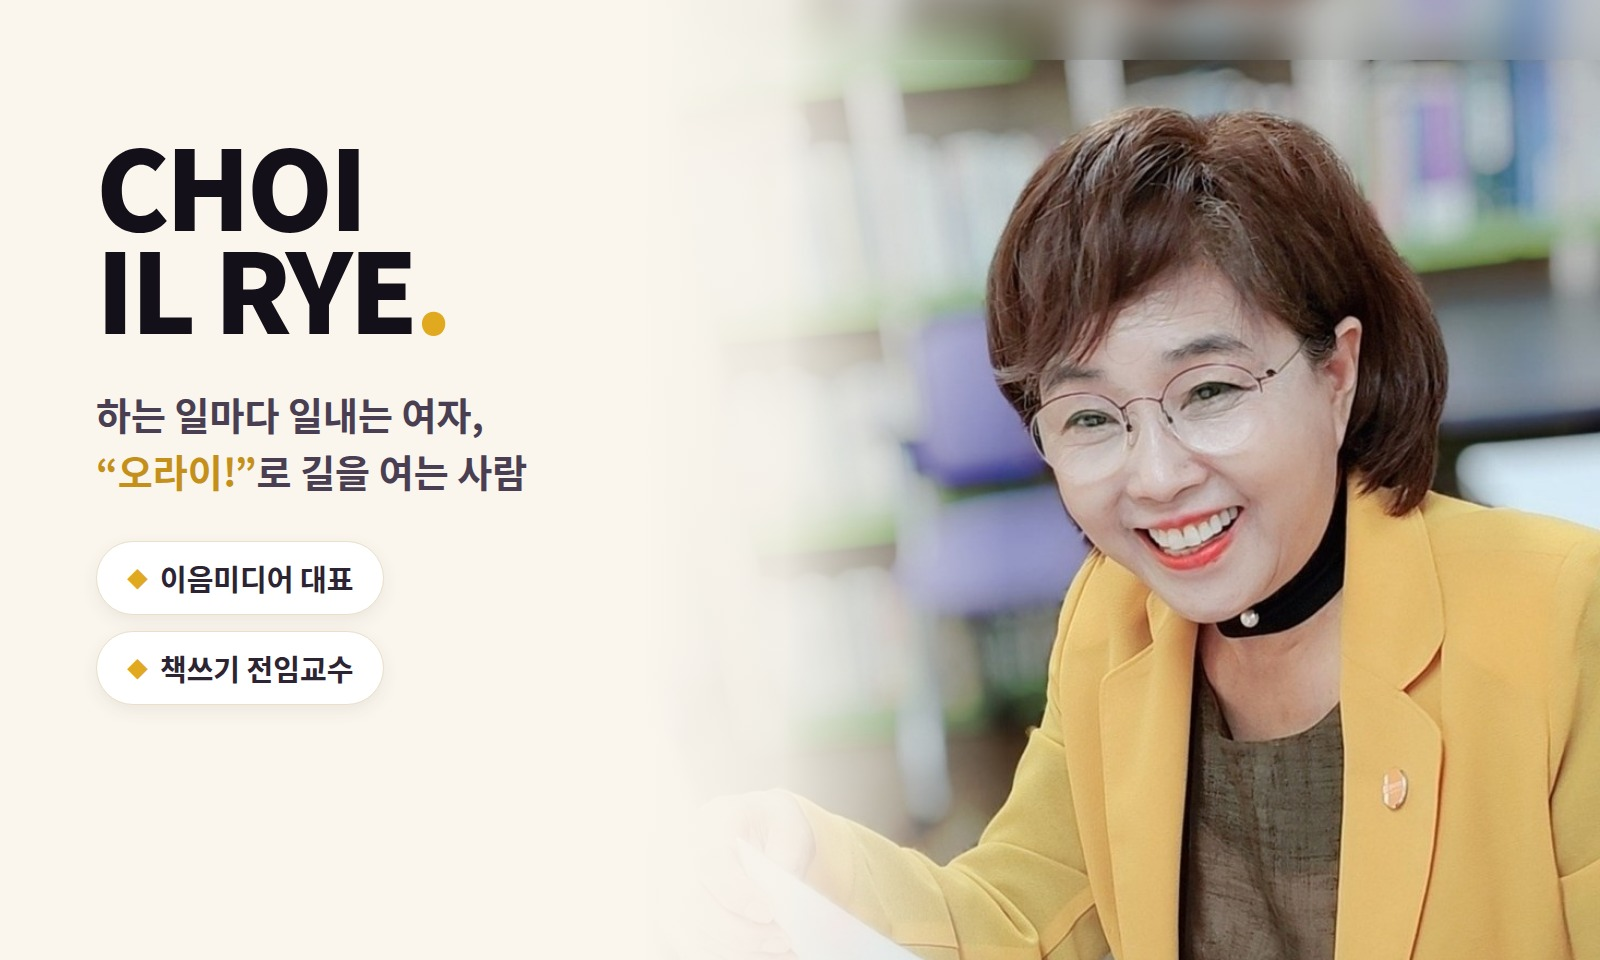
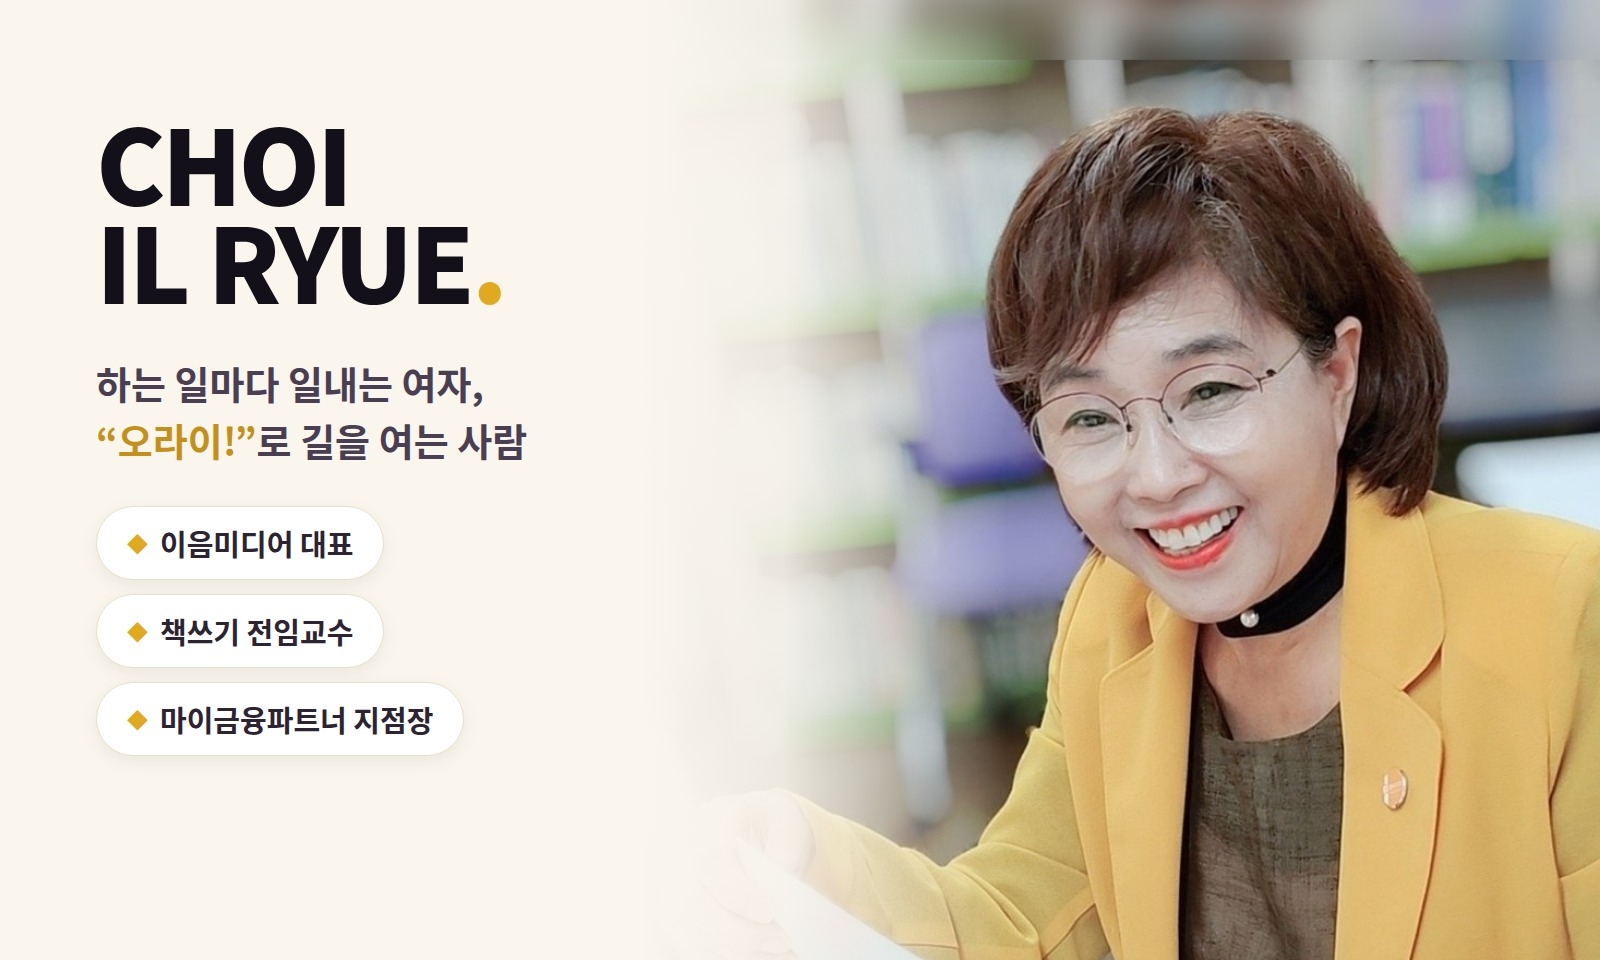
feat: choiilrye profile update - RYUE signature, 마이금융파트너, card image
- 영문명 CHOI IL RYE -> CHOI IL RYUE (hero-en + SVG aria-label)
- 서명 SVG 교체 (viewBox 960->1000, u 패스 추가, 플러리시 이동)
- hero-sub 2줄: 소통공감박사 + 마이금융파트너 지점장 추가
- 인카금융서비스 카드 -> 마이금융파트너 비에프본부 지점장 카드 교체
- card.jpg 신규 이미지(188KB)로 교체

Changed region(s): [[0.0625, 0.125, 0.3438, 0.7812]]

diff --git a/src/pages/PiumAppDetailPage.jsx b/src/pages/PiumAppDetailPage.jsx
@@ -1444,6 +1444,7 @@ function ChoiilryePage() {
 .cir-hero-figure{position:relative;margin:30px -26px 0;border-top:2px solid rgba(224,169,31,.55);overflow:hidden}
 .cir-hero-photo{width:100%;display:block}
 .cir-hero-figure::after{content:'';position:absolute;inset:0;pointer-events:none;background:linear-gradient(180deg,rgba(20,16,25,.38) 0%,rgba(20,16,25,0) 26%,rgba(20,16,25,0) 58%,rgba(20,16,25,.92) 100%)}
+.cir-sig{position:absolute;z-index:2;left:50%;bottom:14px;transform:translateX(-50%);width:78%;pointer-events:none;filter:drop-shadow(0 3px 7px rgba(0,0,0,.9)) drop-shadow(0 0 16px rgba(0,0,0,.75))}
 /* stats */
 .cir-hero-stats{display:flex;gap:10px;margin-top:22px}
 .cir-stat{flex:1;background:rgba(255,255,255,.045);border:1px solid var(--line);border-radius:14px;padding:15px 8px;text-align:center}
@@ -1634,13 +1635,14 @@ function ChoiilryePage() {
       {/* 히어로 */}
       <header className="cir-hero">
         <div className="cir-hero-brand">PIUM 전문가 프로필</div>
-        <div className="cir-hero-en">CHOI IL RYE</div>
+        <div className="cir-hero-en">CHOI IL RYUE</div>
         <div className="cir-hero-div" />
         <h1>최일례</h1>
-        <div className="cir-hero-sub">이음미디어 대표 · 소통공감박사 · 책쓰기 전임교수</div>
+        <div className="cir-hero-sub">이음미디어 대표 · 소통공감박사<br />책쓰기 전임교수 · 마이금융파트너 지점장</div>
         <div className="cir-hero-tag">하는 일마다 일내는 여자,<br /><em>"오라이!"</em>로 길을 여는 사람</div>
         <figure className="cir-hero-figure">
           <img className="cir-hero-photo" src="/pium-app/choiilrye/hero.jpg" alt="최일례 대표" />
+          <svg className="cir-sig" viewBox="0 0 1000 300" xmlns="http://www.w3.org/2000/svg" aria-label="Choi il-ryue"><defs><linearGradient id="sigG" x1="0" y1="0" x2="1" y2="0"><stop offset="0%" stopColor="#fff6dd"/><stop offset="55%" stopColor="#f2cb63"/><stop offset="100%" stopColor="#e0a91f"/></linearGradient></defs><path d="M 250 88 C 238 60, 188 44, 146 62 C 96 83, 74 146, 92 186 C 110 226, 168 242, 210 226 C 228 219, 238 209, 244 198" fill="none" stroke="url(#sigG)" strokeWidth="7.5" strokeLinecap="round" strokeLinejoin="round"/><path d="M 284 214 C 292 178, 300 122, 302 96 C 303 74, 296 62, 286 66 C 274 71, 274 100, 282 132 C 291 168, 300 192, 302 212 C 306 184, 318 164, 336 162 C 356 160, 366 178, 364 198 L 363 212" fill="none" stroke="url(#sigG)" strokeWidth="7.5" strokeLinecap="round" strokeLinejoin="round"/><path d="M 428 170 C 410 148, 374 150, 364 176 C 354 200, 368 218, 392 218 C 412 218, 428 204, 428 188 C 428 180, 428 174, 428 170" fill="none" stroke="url(#sigG)" strokeWidth="7.5" strokeLinecap="round" strokeLinejoin="round"/><path d="M 428 190 C 440 188, 452 183, 462 176" fill="none" stroke="url(#sigG)" strokeWidth="7.5" strokeLinecap="round" strokeLinejoin="round"/><path d="M 470 200 C 476 182, 484 166, 490 158 C 486 176, 482 194, 486 204 C 490 212, 500 210, 508 202" fill="none" stroke="url(#sigG)" strokeWidth="7.5" strokeLinecap="round" strokeLinejoin="round"/><path d="M 556 200 C 562 182, 570 166, 576 158 C 572 176, 568 194, 572 204 C 576 212, 586 210, 594 202" fill="none" stroke="url(#sigG)" strokeWidth="7.5" strokeLinecap="round" strokeLinejoin="round"/><path d="M 602 202 C 610 170, 622 118, 628 88 C 632 66, 626 56, 616 60 C 606 64, 606 92, 614 124 C 622 158, 630 186, 632 202 C 634 210, 642 212, 650 204" fill="none" stroke="url(#sigG)" strokeWidth="7.5" strokeLinecap="round" strokeLinejoin="round"/><path d="M 660 180 L 700 176" fill="none" stroke="url(#sigG)" strokeWidth="7.5" strokeLinecap="round" strokeLinejoin="round"/><path d="M 708 206 C 714 186, 720 168, 724 158 C 722 174, 720 188, 722 196 C 730 178, 744 164, 758 166 C 766 167, 770 172, 770 178" fill="none" stroke="url(#sigG)" strokeWidth="7.5" strokeLinecap="round" strokeLinejoin="round"/><path d="M 778 160 C 782 180, 788 196, 796 204 C 804 212, 812 206, 818 192 C 824 176, 828 164, 830 158 C 826 188, 820 226, 810 252 C 802 272, 788 280, 778 274 C 770 269, 770 260, 778 256" fill="none" stroke="url(#sigG)" strokeWidth="7.5" strokeLinecap="round" strokeLinejoin="round"/><path d="M 840 160 C 836 182, 836 200, 844 208 C 854 216, 868 206, 874 188 C 878 176, 880 166, 881 160 C 877 180, 874 196, 876 204 C 878 210, 884 210, 890 204" fill="none" stroke="url(#sigG)" strokeWidth="7.5" strokeLinecap="round" strokeLinejoin="round"/><path d="M 892 192 C 904 186, 918 184, 926 178 C 932 173, 928 162, 918 162 C 904 162, 892 178, 894 196 C 896 212, 912 218, 928 208" fill="none" stroke="url(#sigG)" strokeWidth="7.5" strokeLinecap="round" strokeLinejoin="round"/><path d="M 928 208 C 958 218, 964 244, 932 254 C 875 268, 420 268, 300 252 C 274 248, 272 236, 296 230" fill="none" stroke="url(#sigG)" strokeWidth="7.5" strokeLinecap="round" strokeLinejoin="round"/><circle cx="486" cy="128" r="5.5" fill="url(#sigG)"/><circle cx="572" cy="128" r="5.5" fill="url(#sigG)"/></svg>
         </figure>
       </header>
 
@@ -1796,7 +1798,7 @@ function ChoiilryePage() {
               <div className="cir-card"><b>봉숭아학당 문화혁신학교 책쓰기 교수 · 방송스피치 총동문회장</b><p>대표님이 방송 스피치를 배운 곳에서, 이제는 가르치고 이끄는 자리에 섰습니다.</p></div>
               <div className="cir-card"><b>유튜브 전문 강사 · 시니어 디지털 교육</b><p>시니어에게 유튜브와 AI 도구를 가르칩니다.</p></div>
               <div className="cir-card"><b>실버 레크리에이션 · 실버 전래놀이 강사</b><p>현장에서 어르신들과 직접 만나 웃음을 나눕니다.</p></div>
-              <div className="cir-card"><b>(주)인카금융서비스 마이다스 사업단 지점장</b><p>보험 · 재무 서비스 <span className="cir-need">게재 여부 확인</span></p></div>
+              <div className="cir-card"><b>마이금융파트너 비에프본부 지점장</b><p>(주)현대해상 판매자회사. 보험 · 재무 상담으로 사람들의 살림을 지킵니다.</p></div>
             </div>
             <div className="cir-tagwrap">
               {['소통공감박사','AI 디지털 리터러시 1급 지도사','AI 디지털 리터러시 강사','AI 코에디터 책쓰기 강사','AI 책쓰기 1급 지도사 강사','방송스피치지도사 1급','웃음건강지도사 1급','스마트폰활용 전문강사 1급','건강지도사 1급','웰다잉지도사 전문강사'].map(t => (
